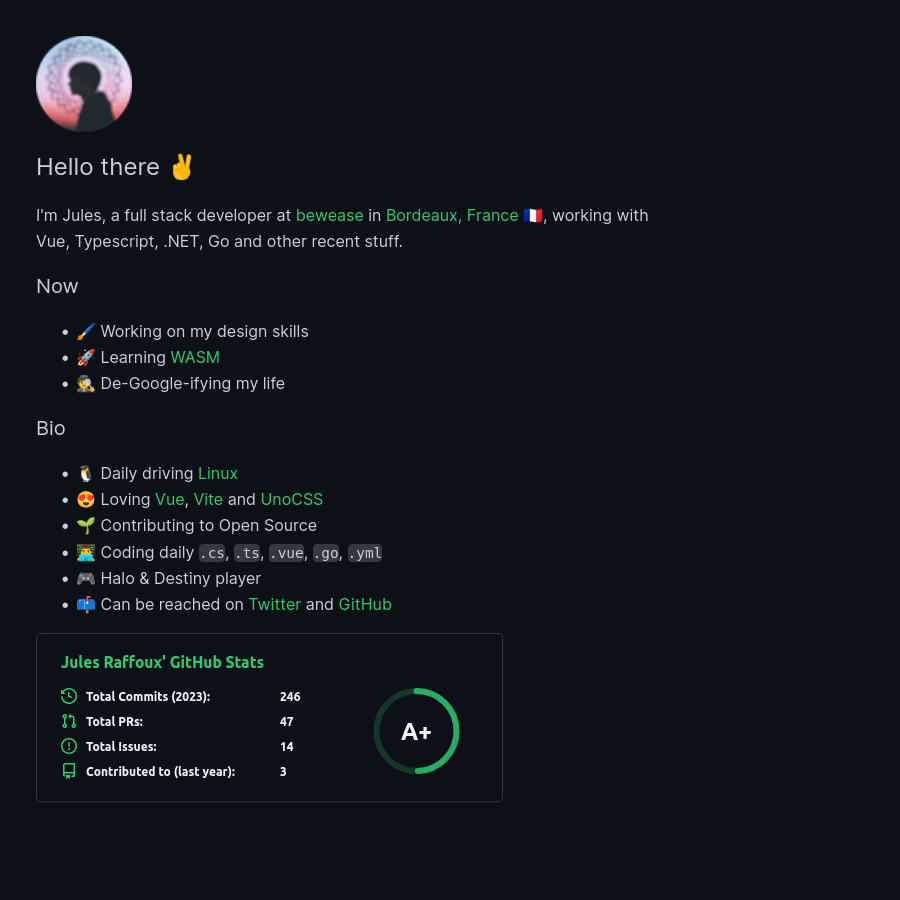
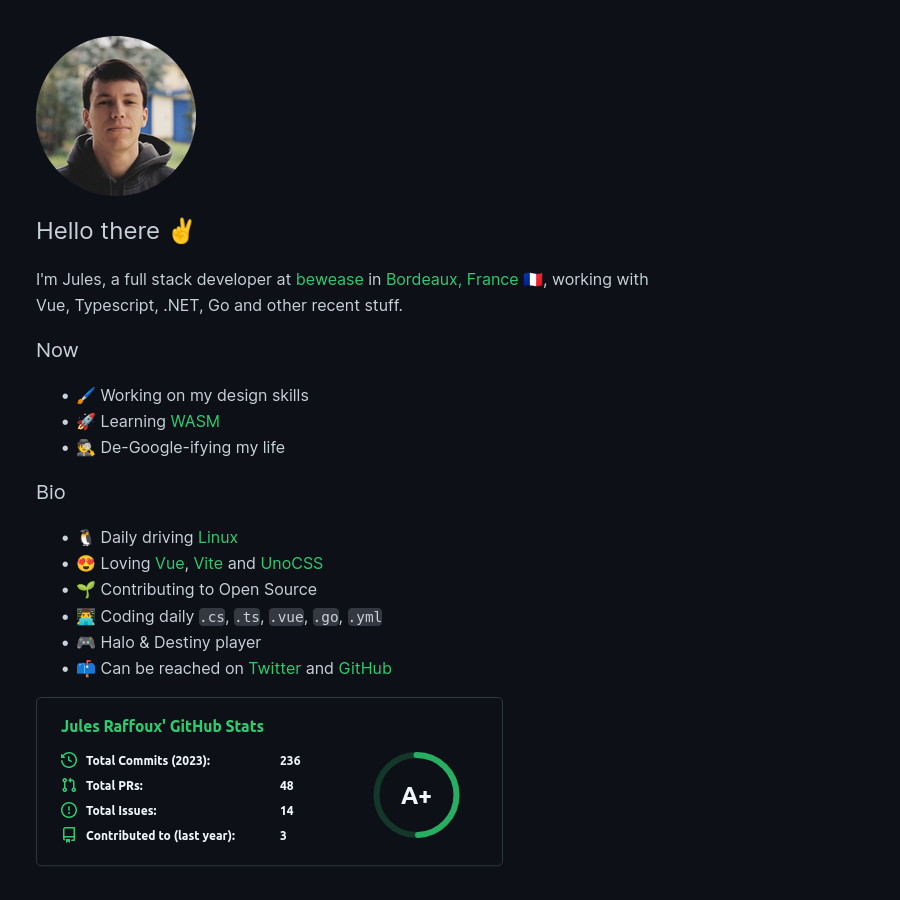
Update picture

diff --git a/app.vue b/app.vue
@@ -6,7 +6,7 @@ useBouncer();
 <template>
   <main>
     <header>
-      <img src="/favicon.ico" :alt="config.title" />
+      <img src="/jules.png" :alt="config.title" />
     </header>
 
     <NuxtPage />

diff --git a/assets/main.scss b/assets/main.scss
@@ -39,8 +39,9 @@ body {
 
 header {
   img {
-    height: 6rem;
-    width: 6rem;
+    height: 10rem;
+    width: 10rem;
+    border-radius: 50%;
   }
 }
 
